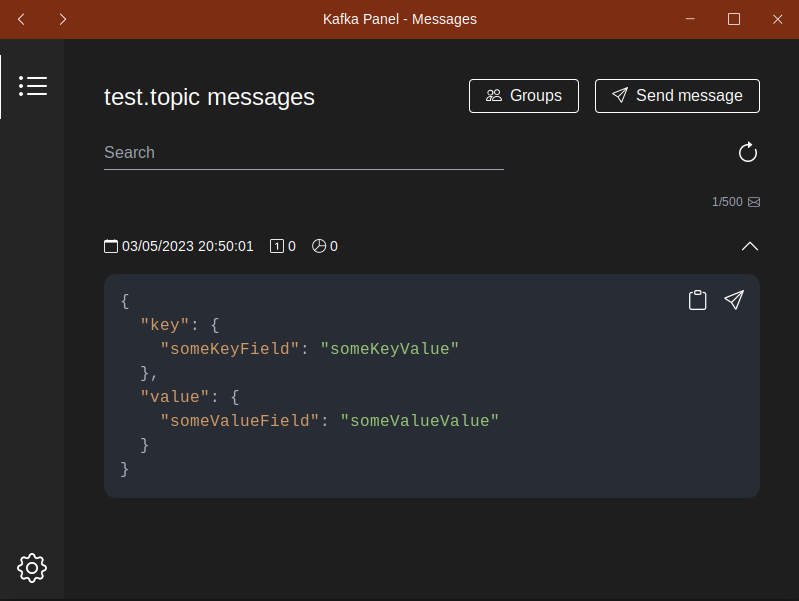
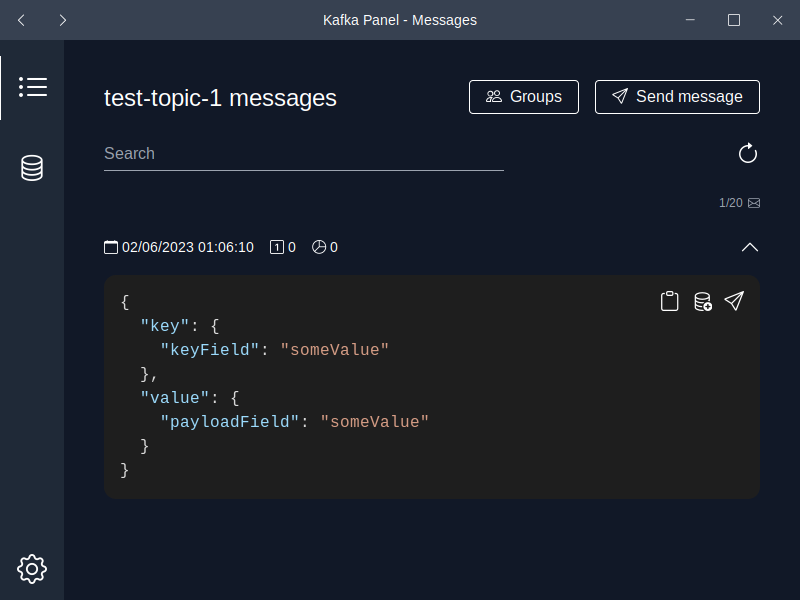
fix: update readme up to latest 0.1.1 version

diff --git a/README.md b/README.md
@@ -50,6 +50,14 @@ In Groups page you see the consumer groups connected to your topic with the stat
 
 You can also move the offsets forward to skip certain messages, but only when the consumer group is disconnected and of course there's lag.
 
+#### Messages Storage
+
+![Messages Storage page](src/assets/screenshots/messages-storage-page.png)
+
+Messages Storage page is meant to provide you with a local storage of your favorite messages from all the topics and connections. Not only that it also allow you for each message to be sent to whatever connection and whatever topic you like.
+
+Messages can be saved in storage with the little "DB" icon you'll find on each message you've already sent, specifying some **tags** before saving to make your search easier in the future.
+
 #### Settings
 
 ![Settings page](src/assets/screenshots/settings-page.png)
